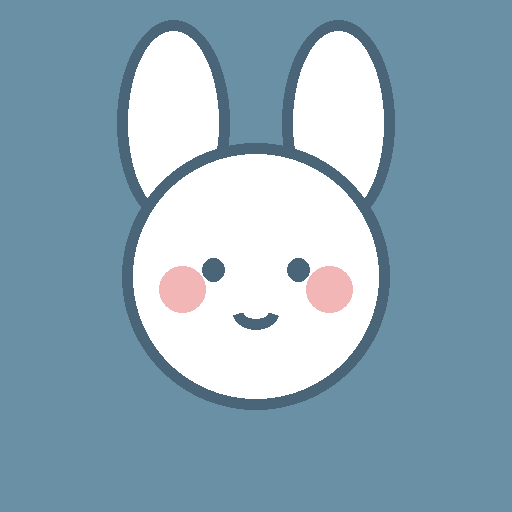
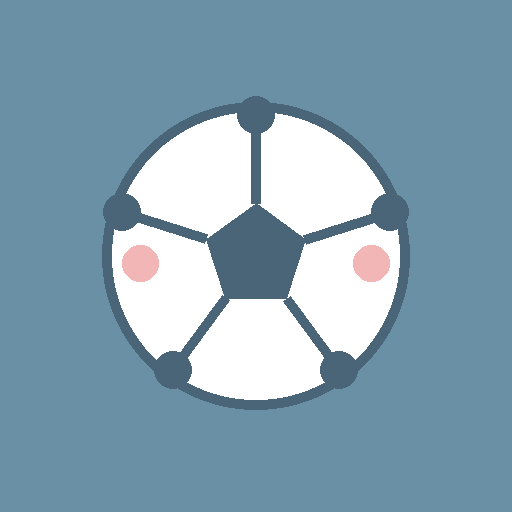
把小兔子换成足球图标

Changed region(s): [[0.1875, 0.0312, 0.8125, 0.7812]]

diff --git a/src/App.jsx b/src/App.jsx
@@ -1027,7 +1027,7 @@ export default function MonthlyLedger() {
             position: "absolute", top: -14, right: -6, fontSize: 100,
             opacity: 0.18, transform: "rotate(10deg)", lineHeight: 1,
           }}>
-            🐰
+            ⚽
           </div>
           <div style={{
             position: "absolute", top: 16, right: 90, width: 26, height: 26, borderRadius: "50%",
@@ -1042,7 +1042,7 @@ export default function MonthlyLedger() {
             <span style={{ fontFamily: "'JetBrains Mono', monospace" }}>CHIIKAWA LEDGER</span> · 月度账本
           </div>
           <div style={{ fontWeight: 700, fontSize: 26, lineHeight: 1.3, display: "flex", alignItems: "center", gap: 8 }}>
-            丫丫得小钱包 <span style={{ fontSize: 20 }}>🐰</span>
+            丫丫得小钱包 <span style={{ fontSize: 20 }}>⚽</span>
           </div>
           <div style={{ display: "flex", alignItems: "center", gap: 10, marginTop: 14 }}>
             <button onClick={() => shiftMonth(-1)} style={navBtnStyle}>‹</button>
@@ -1890,7 +1890,7 @@ export default function MonthlyLedger() {
               borderRadius: 6, padding: "3px 8px", fontSize: 11, fontWeight: 700, letterSpacing: 1,
               transform: "rotate(-8deg)", opacity: 0.9,
               animation: "stampIn 0.5s ease-out", zIndex: 2,
-            }}>🐰 已记录</div>
+            }}>⚽ 已记录</div>
           )}
           <style>{`@keyframes stampIn { 0% { opacity:0; transform: rotate(-8deg) scale(1.6);} 100% {opacity:0.9; transform: rotate(-8deg) scale(1);} }`}</style>
 
@@ -2300,7 +2300,7 @@ export default function MonthlyLedger() {
         <>
         {/* Net worth summary */}
         <div style={{ background: "#6A90A6", color: "#FDF3F1", padding: "18px 20px", borderTop: "none", position: "relative", overflow: "hidden" }}>
-          <div style={{ position: "absolute", top: -14, right: -6, fontSize: 70, opacity: 0.12, transform: "rotate(15deg)" }}>🐰</div>
+          <div style={{ position: "absolute", top: -14, right: -6, fontSize: 70, opacity: 0.12, transform: "rotate(15deg)" }}>⚽</div>
           <div style={{ fontSize: 11, letterSpacing: 2, opacity: 0.6, marginBottom: 8 }}>
             净资产 <span style={{ fontFamily: "'JetBrains Mono', monospace" }}>NET WORTH</span>
           </div>
@@ -2486,7 +2486,7 @@ export default function MonthlyLedger() {
         <>
         {/* Fund total summary */}
         <div style={{ background: "#6A90A6", color: "#FDF3F1", padding: "18px 20px", borderTop: "none", position: "relative", overflow: "hidden" }}>
-          <div style={{ position: "absolute", top: -14, right: -6, fontSize: 70, opacity: 0.12, transform: "rotate(15deg)" }}>🐰</div>
+          <div style={{ position: "absolute", top: -14, right: -6, fontSize: 70, opacity: 0.12, transform: "rotate(15deg)" }}>⚽</div>
           <div style={{ fontSize: 11, letterSpacing: 2, opacity: 0.6, marginBottom: 8 }}>
             基金总额
           </div>